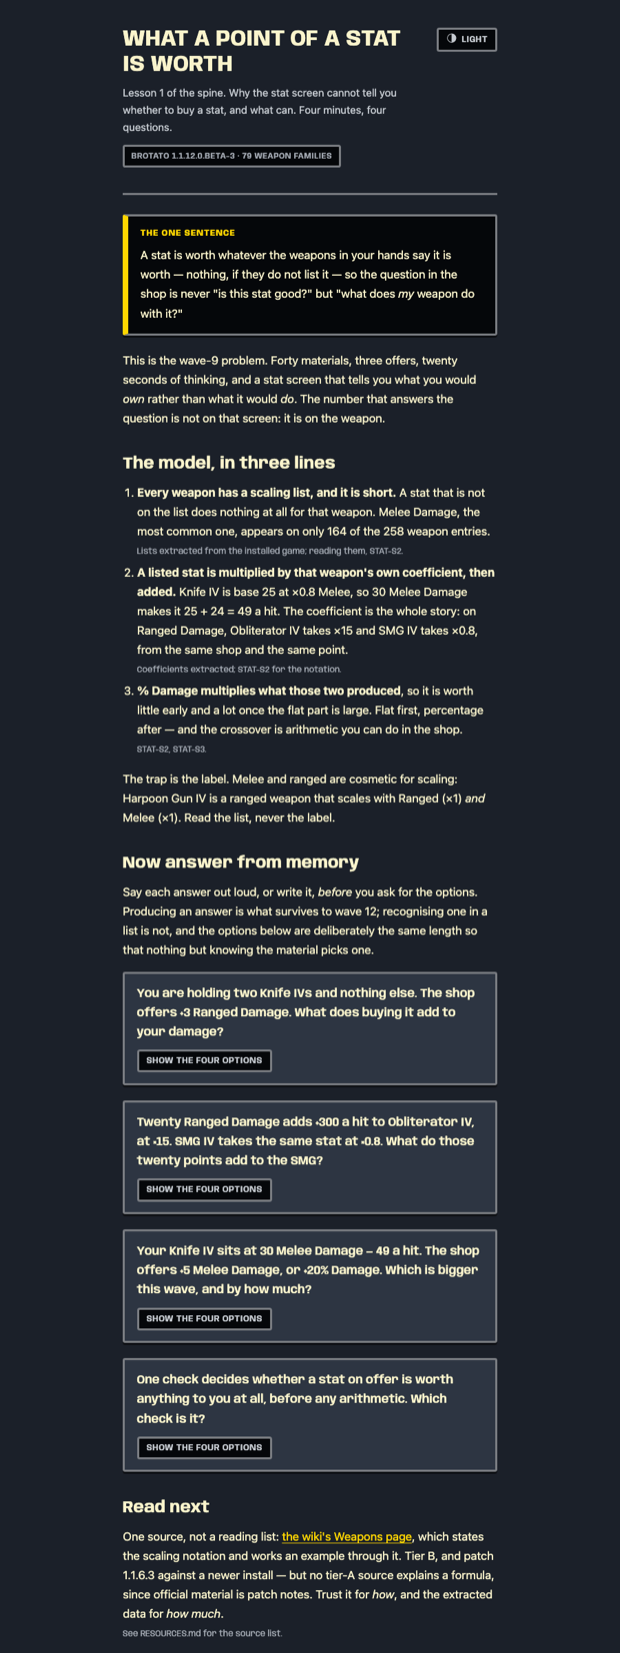
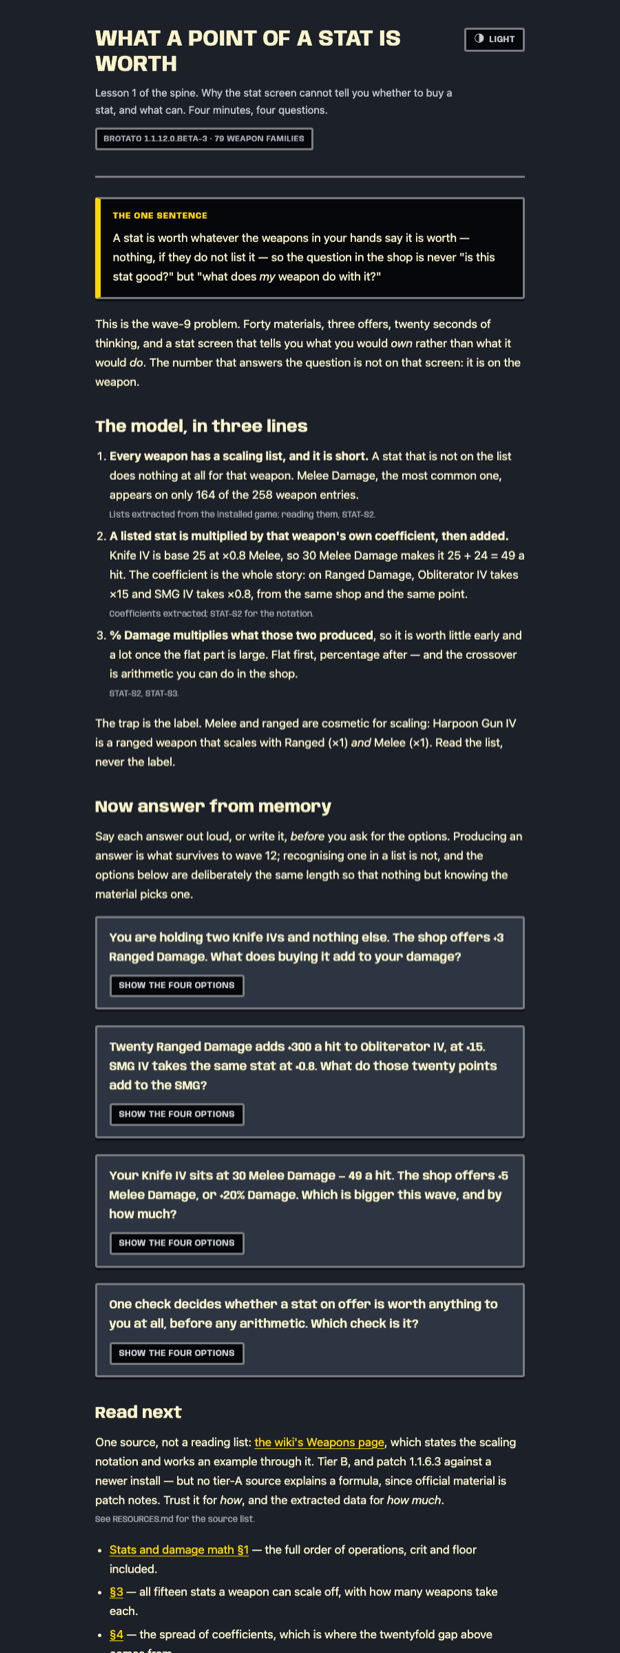
🥔 Widen the reading column
34rem was set for prose alone. The panels this restyle brought in are wider
things — a quiz option and its note kept wrapping where the game would have
given them one line — so the column was fighting its own contents.

39rem, which is still inside the 60-to-90 characters prose is comfortably read
at, and lets a question sit as one panel rather than three stacked lines.

Changed region(s): [[0.1532, 0.0, 0.8581, 1.0], [0.7048, 0.0, 0.8581, 0.0309]]

diff --git a/assets/lesson.css b/assets/lesson.css
@@ -172,7 +172,10 @@
      edges, so this is an offset solid rather than a blur — the sticker edge, not a lift. */
   --shadow: 0 3px 0 rgb(0 0 0 / 55%);
 
-  --measure: 34rem;
+  /* The reading column. Wide enough that a quiz option and its note sit on one line more
+     often than not — the game's panels are wide, and a narrow column fights them — while
+     staying inside the 60-to-90 characters a line of prose is comfortably read at. */
+  --measure: 39rem;
   --gutter: 1.5rem;
 
   /* Geometry, from the same resources as the colours. `panel_style.tres` rounds a panel by 8
